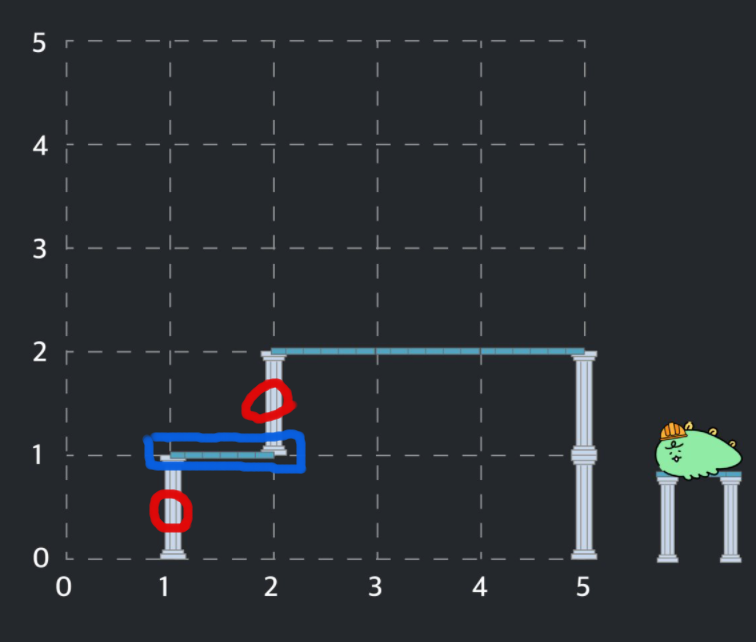
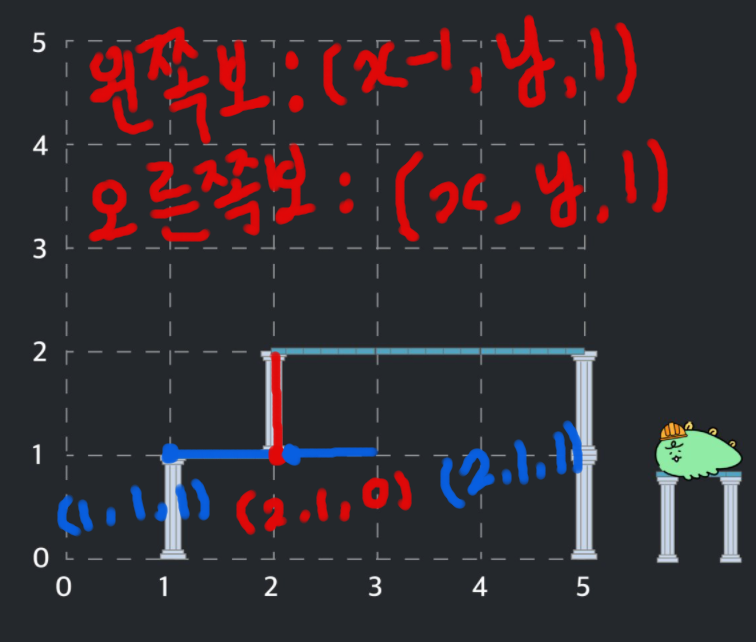
update

diff --git a/_posts/2021-02-12-[Programmers]60061_기둥과 보 설치.md b/_posts/2021-02-12-[Programmers]60061_기둥과 보 설치.md
@@ -9,20 +9,24 @@ tags: Python Codingtest Programmers
 [문제 URL](https://programmers.co.kr/learn/courses/30/lessons/60061?language=python3)
 
 # solution
-기둥과 보를 설치 및 삭제 하기 위해서 필요한 조건을 잘 처리하는 것이 중요하다. 
+기둥과 보를 설치 하기 위해서 주어진 조건을 잘 처리해야 한다.
 
-### 기둥 설치 시 
+### 기둥 설치 조건 
 - 조건 : 기둥은 바닥 위에 있거나 보의 한 쪽 끝 부분 위에 있거나, 또는 다른 기둥 위에 있어야 한다.    
 
 (1) 기둥은 바닥 위에 있거나       
 기둥이 바닥위에 있는 경우를 살펴보면, 높이가 0이므로 y=0으로 표현할 수 있다.       
-<img src='https://raw.githubusercontent.com/kkogggokk/kkogggokk.github.io/master/assets/pic/post_20210212_pic1.png' width='250' height='250'>  
+<img src='https://raw.githubusercontent.com/kkogggokk/kkogggokk.github.io/master/assets/pic/post_20210212_pic1.png' width='100' height='100'>  
 
 (2) 보의 한 쪽 끝 부분 위에 있거나       
-![]()
+왼쪽 보(x-1, y, 1) 가 있는 경우 기둥 설치 가능하다.
+오른쪽 보(x, y, 1) 가 있는 경우 기둥 설치가 가능하다. 
+<img src='https://raw.githubusercontent.com/kkogggokk/kkogggokk.github.io/master/assets/pic/post_20210212_pic2.png' width = '100' height = '100>
+
+
 (3) 다른 기둥 위에 있어야 합니다.         
 
-### 보 설치 시 
+### 보 설치 조건 
 
 - 기둥, 보 설치 조건 처리 메서드 
 
